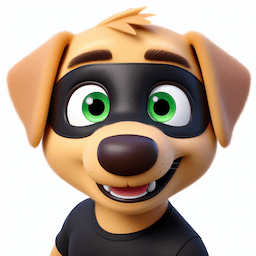
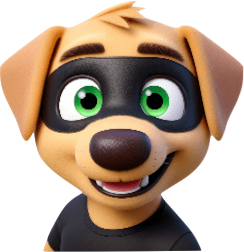
Add Mermaid diagram support and styles
Introduce Mermaid support and styles site-wide. Adds _includes/mermaid.html to load Mermaid from CDN, convert fenced mermaid code blocks and initialize theme-aware rendering; conditionally include it in the base layout when page.mermaid is set. Update a post to enable mermaid and embed a sample flowchart. Add CSS to reset prose <pre> styling for .post-content pre.mermaid and provide a subtle light-mode border, plus small layout/style tweaks (responsive hiding of sidebar tagline, lead text color adjustments, and reduced-motion media query reordering). Also include minor cleanup and config updates: remove unused nav assignment in sidebar, simplify an utterances label comment, update site description in _config.yml, adjust the bundle runtime path in .claude/launch.json, and replace the media image file.

diff --git a/assets/css/main.css b/assets/css/main.css
@@ -140,9 +140,6 @@ html.theme-green  { --color-accent: #4ade80; --color-accent-dark: #16a34a; }
     width: 56px;
     height: 56px;
   }
-  .sidebar__tagline {
-    display: none;
-  }
   .sidebar__nav-link,
   .sidebar__social-link {
     padding-top: 0.25rem;
@@ -154,6 +151,12 @@ html.theme-green  { --color-accent: #4ade80; --color-accent-dark: #16a34a; }
   }
   #sidebar [class*="pt-6"] {
     padding-top: 0.5rem;
+  }
+}
+
+@media (max-height: 719px) {
+  .sidebar__tagline {
+    display: none;
   }
 }
 
@@ -415,7 +418,7 @@ html.theme-green  { --color-accent: #4ade80; --color-accent-dark: #16a34a; }
 
   /* --- .lead --- */
   .lead {
-    @apply text-xl text-slate-300 leading-relaxed font-light;
+    @apply text-xl text-gray-600 dark:text-slate-300 leading-relaxed font-light;
   }
 
   /* --- .smaller --- */
@@ -1473,10 +1476,11 @@ html.theme-green  { --color-accent: #4ade80; --color-accent-dark: #16a34a; }
    Reduced motion — respect user OS preference
    ============================================================================= */
 
-@media (prefers-reduced-motion: reduce) {
 @media print {
   .site-footer { display: none; }
 }
+
+@media (prefers-reduced-motion: reduce) {
 
 html {
     scroll-behavior: auto;
@@ -1497,4 +1501,25 @@ html {
     transition: none;
     animation: none;
   }
+}
+
+/* =============================================================================
+   Mermaid diagrams — reset prose pre styling
+   ============================================================================= */
+
+/* Strip code-block styles that prose applies to all <pre> elements */
+.post-content pre.mermaid {
+  background: transparent !important;
+  border: none !important;
+  padding: 0 !important;
+  margin-top: 1.5rem;
+  margin-bottom: 1.5rem;
+  overflow: visible;
+}
+
+/* Light mode: add a subtle border so the diagram reads as a distinct block */
+html:not(.dark) .post-content pre.mermaid {
+  border: 1px solid #e5e7eb !important;
+  border-radius: 0.5rem;
+  padding: 1rem !important;
 }

diff --git a/_includes/mermaid.html b/_includes/mermaid.html
@@ -1,0 +1,21 @@
+<script type="module">
+import mermaid from 'https://cdn.jsdelivr.net/npm/mermaid@11/dist/mermaid.esm.min.mjs';
+
+// Kramdown renders fenced ```mermaid blocks as <pre><code class="language-mermaid">.
+// Convert those to <pre class="mermaid"> so Mermaid can find them.
+document.querySelectorAll('pre code.language-mermaid').forEach(function (code) {
+  var pre = document.createElement('pre');
+  pre.className = 'mermaid';
+  pre.textContent = code.textContent;
+  code.parentElement.replaceWith(pre);
+});
+
+var isDark = document.documentElement.classList.contains('dark');
+mermaid.initialize({
+  startOnLoad: true,
+  theme: isDark ? 'dark' : 'default',
+  themeVariables: isDark ? {
+    lineColor: '#94a3b8'   /* slate-400 — visible on slate-900 background */
+  } : {}
+});
+</script>

diff --git a/_includes/sidebar.html b/_includes/sidebar.html
@@ -22,7 +22,6 @@
 
     <!-- Navigation links -->
     <nav class="flex flex-col gap-1" aria-label="Main navigation">
-      {% assign nav_pages = site.data.nav | default: site.nav %}
       {% for link in site.nav %}
       <a href="{{ link.url | relative_url }}"
          class="sidebar__nav-link {% if page.url == link.url or page.url contains link.url %}sidebar__nav-link--active{% endif %}"

diff --git a/_includes/utterances-comment.html b/_includes/utterances-comment.html
@@ -5,7 +5,7 @@
         repo="{{site.utterance.repo }}"
         issue-term="{{ site.utterance.issue-term }}"
         theme="{{ site.utterance.theme}}"
-        label="{{ page.url }}"  # you can going to https://jekyllrb.com/docs/variables/#page-variables find more page variables as a label.
+        label="{{ page.url }}"
         crossorigin="anonymous"
         async>
 </script>

diff --git a/_layouts/base.html b/_layouts/base.html
@@ -25,6 +25,9 @@
   <script src="{{ '/assets/js/vendor/medium-zoom.min.js' | relative_url }}" defer></script>
   <script src="{{ '/assets/js/zoom.js' | relative_url }}" defer></script>
   {% endif %}
+  {% if page.mermaid %}
+  {% include mermaid.html %}
+  {% endif %}
 
   {% include keyboard-shortcuts-modal.html %}
   {% include my-body.html %}

diff --git a/_posts/2023-12-20-user-acceptance-testing-for-vdi-with-azure-devops.md b/_posts/2023-12-20-user-acceptance-testing-for-vdi-with-azure-devops.md
@@ -7,6 +7,7 @@ description: Automated validation of VDI images for user acceptance testing with
 permalink: "/vdi-uat-testing-azure-pipelines/"
 categories:
   - Microsoft
+mermaid: true
 image:
   path: "/assets/img/test/image.jpg"
   srcset:
@@ -27,8 +28,13 @@ The gold image build and change process can be automated on any platform and ver
 
 A management and validation process is required to manage an image and this process will look similar to this:
 
-BUILD > VALIDATE > USER ACCEPTANCE TESTING > DEPLOY
-{:.lead}
+```mermaid
+flowchart LR
+    A[Build]
+    A --> B[Validate]
+    B --> C[Validate]
+    C --> D[Validate]
+```
 
 When a gold image is updated and deployed, most organisations will rely on manual user acceptance testing before promoting that image into production. Adding automated testing in the VALIDATE phase ensures you can capture things users won't, or speed the mundane task of manually validating your images.
 
